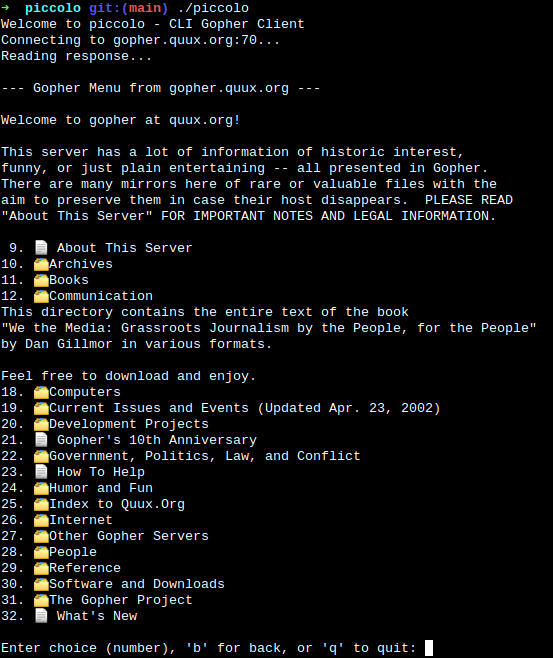
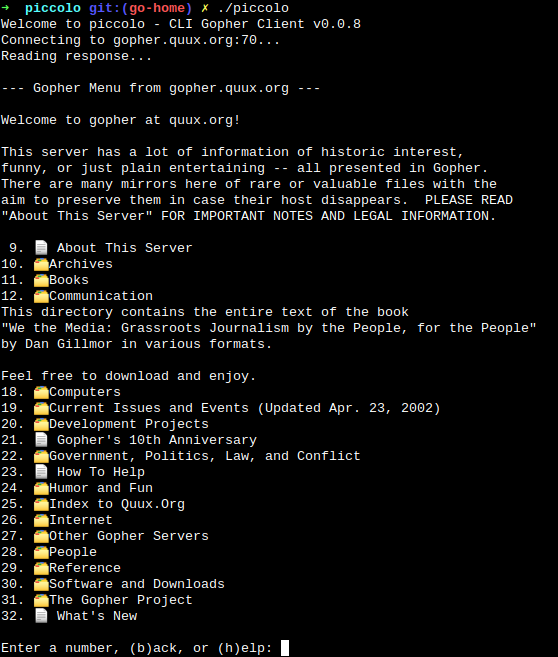
Go H(o)me Input Option

diff --git a/README.md b/README.md
@@ -14,9 +14,9 @@ piccolo is a simple CLI Gopher client written in Common Lisp.
 Download a [release](https://github.com/juliojimenez/piccolo/releases) (recommended)
 
 ```bash
-wget https://github.com/juliojimenez/piccolo/archive/refs/tags/v0.0.7.tar.gz -O piccolo.tar.gz
+wget https://github.com/juliojimenez/piccolo/archive/refs/tags/v0.0.8.tar.gz -O piccolo.tar.gz
 tar -xvzf piccolo.tar.gz
-cd piccolo-0.0.7
+cd piccolo-0.0.8
 ```
 
 Clone the repository (may be unstable)
@@ -56,6 +56,32 @@ If no URI is provided, piccolo will start at the configured home gopherspace. By
 Each item associated with an item type has a line number. To navigate to an item, just input its line number into the prompt and press `[ENTER]`.
 
 ![Menu](./images/piccolo-menu.png)
+
+For a full listing of input options type `h` and `[ENTER]`.
+
+```
+Enter a number, (b)ack, or (h)elp: h
+
+Piccolo - CLI Gopher Client v0.0.8
+
+Command Line Usage:
+  piccolo [gopher://host[:port]/selector]
+
+Input Options:
+  [0-9]*  Navigate to a menu item
+  b       Back
+  f       Forward
+  o       Home
+  d       Favorite
+  q       Quit
+  h       Show this help
+
+Examples:
+  piccolo gopher://gopher.floodgap.com/
+  piccolo
+
+Press Enter to return to menu...
+```
 
 ## Contributing
 
